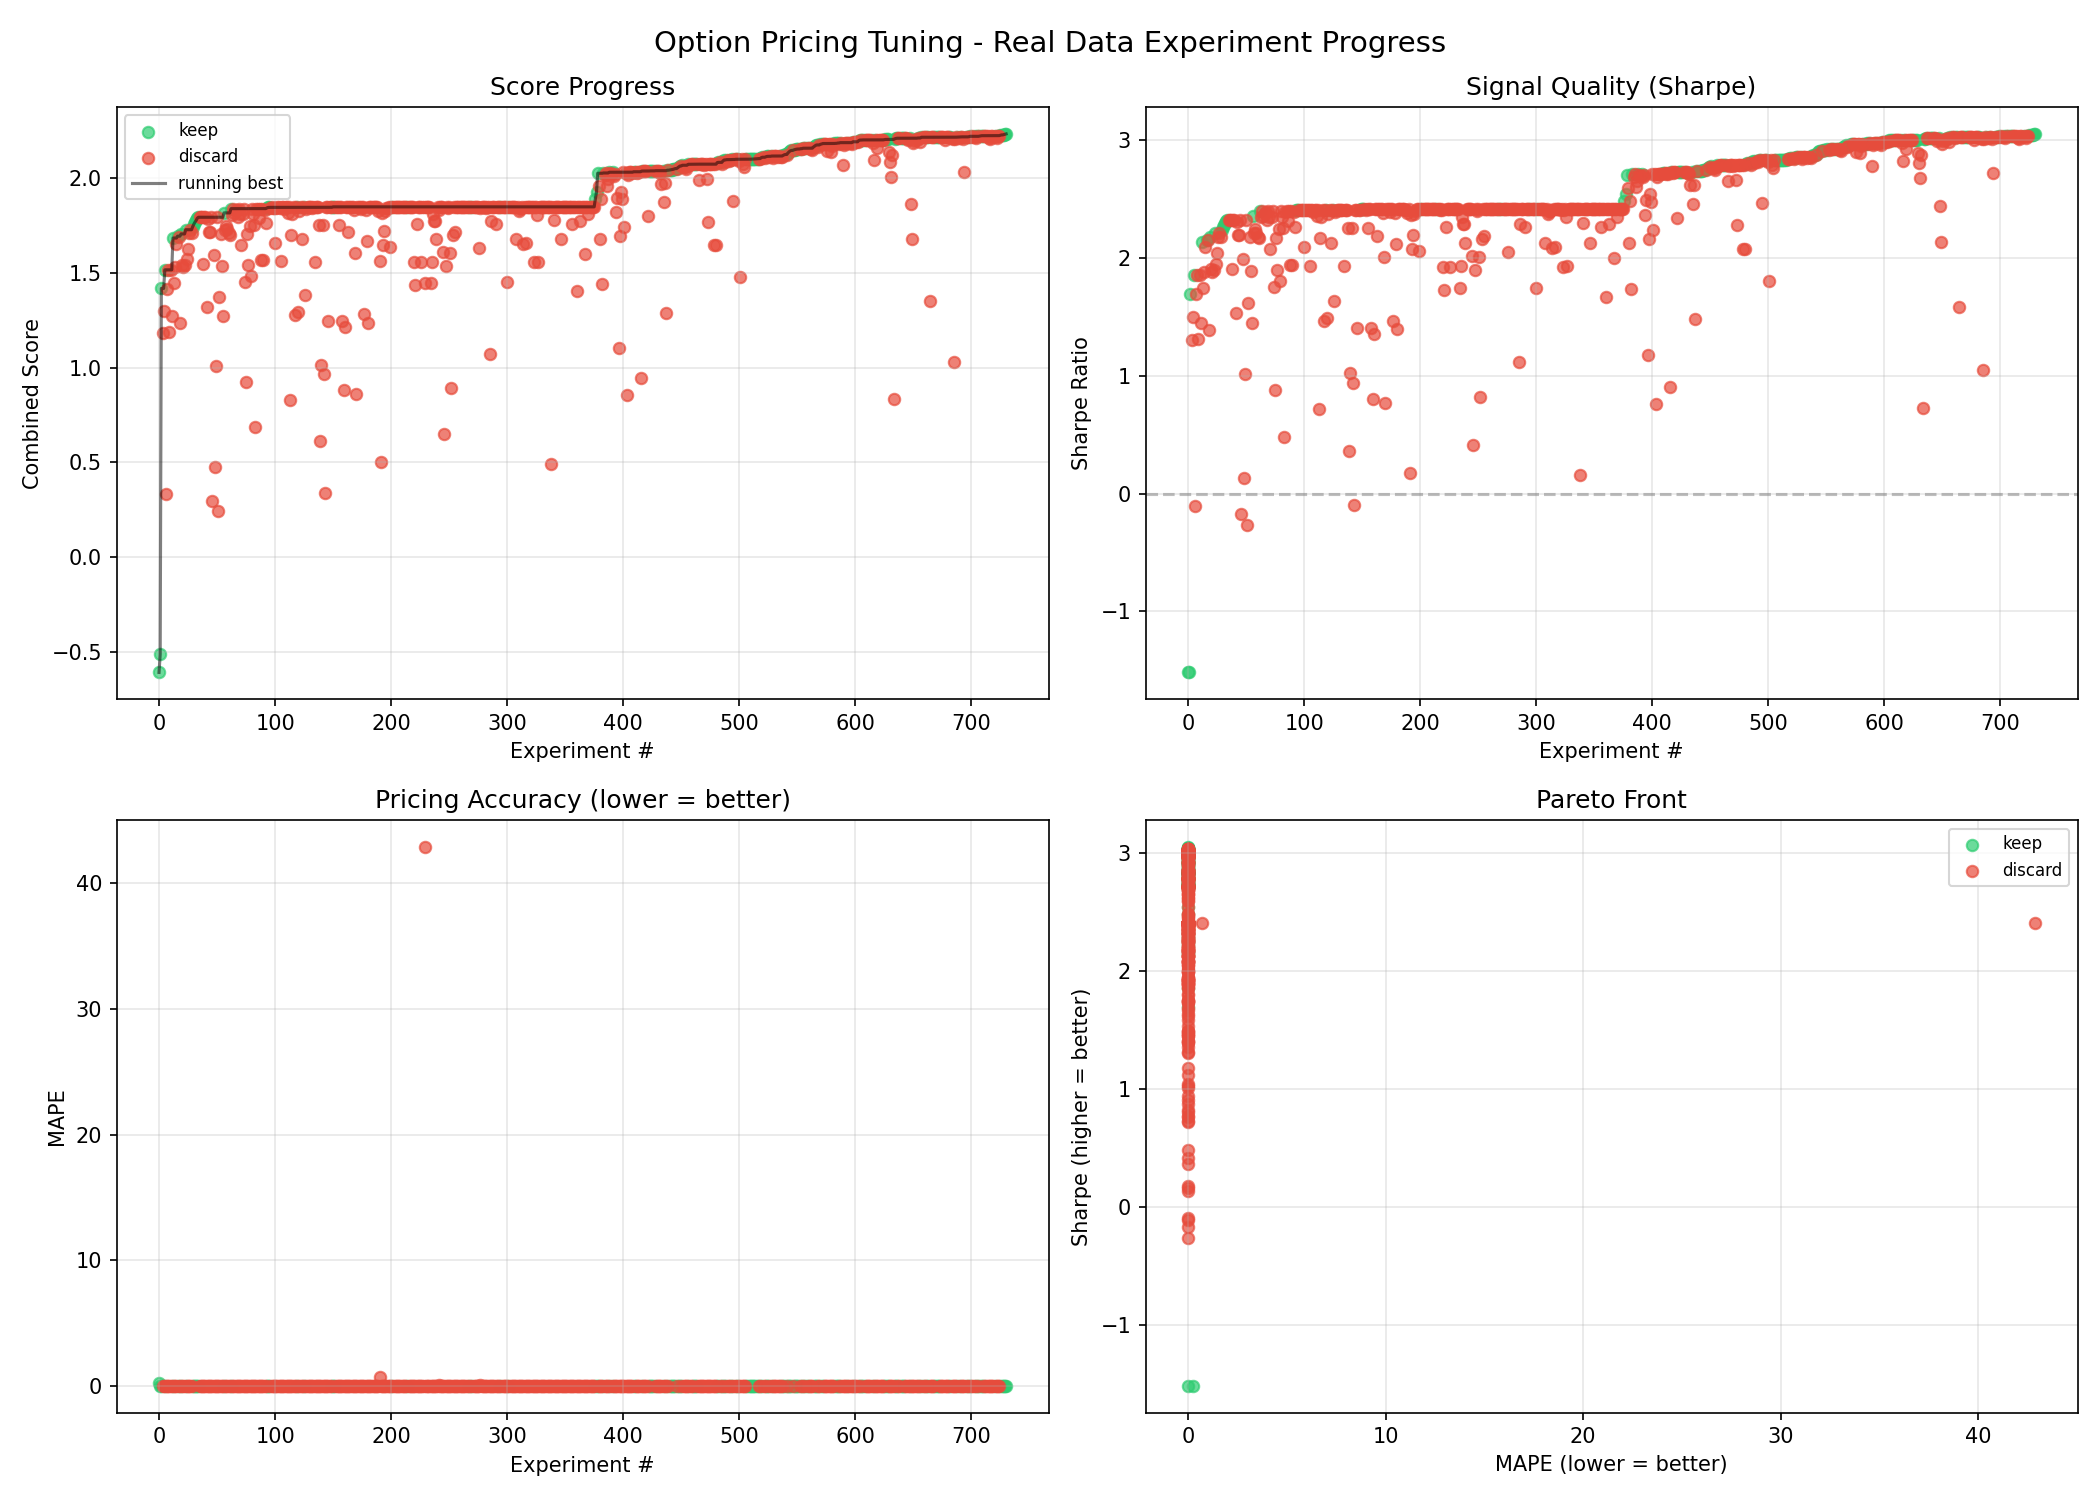
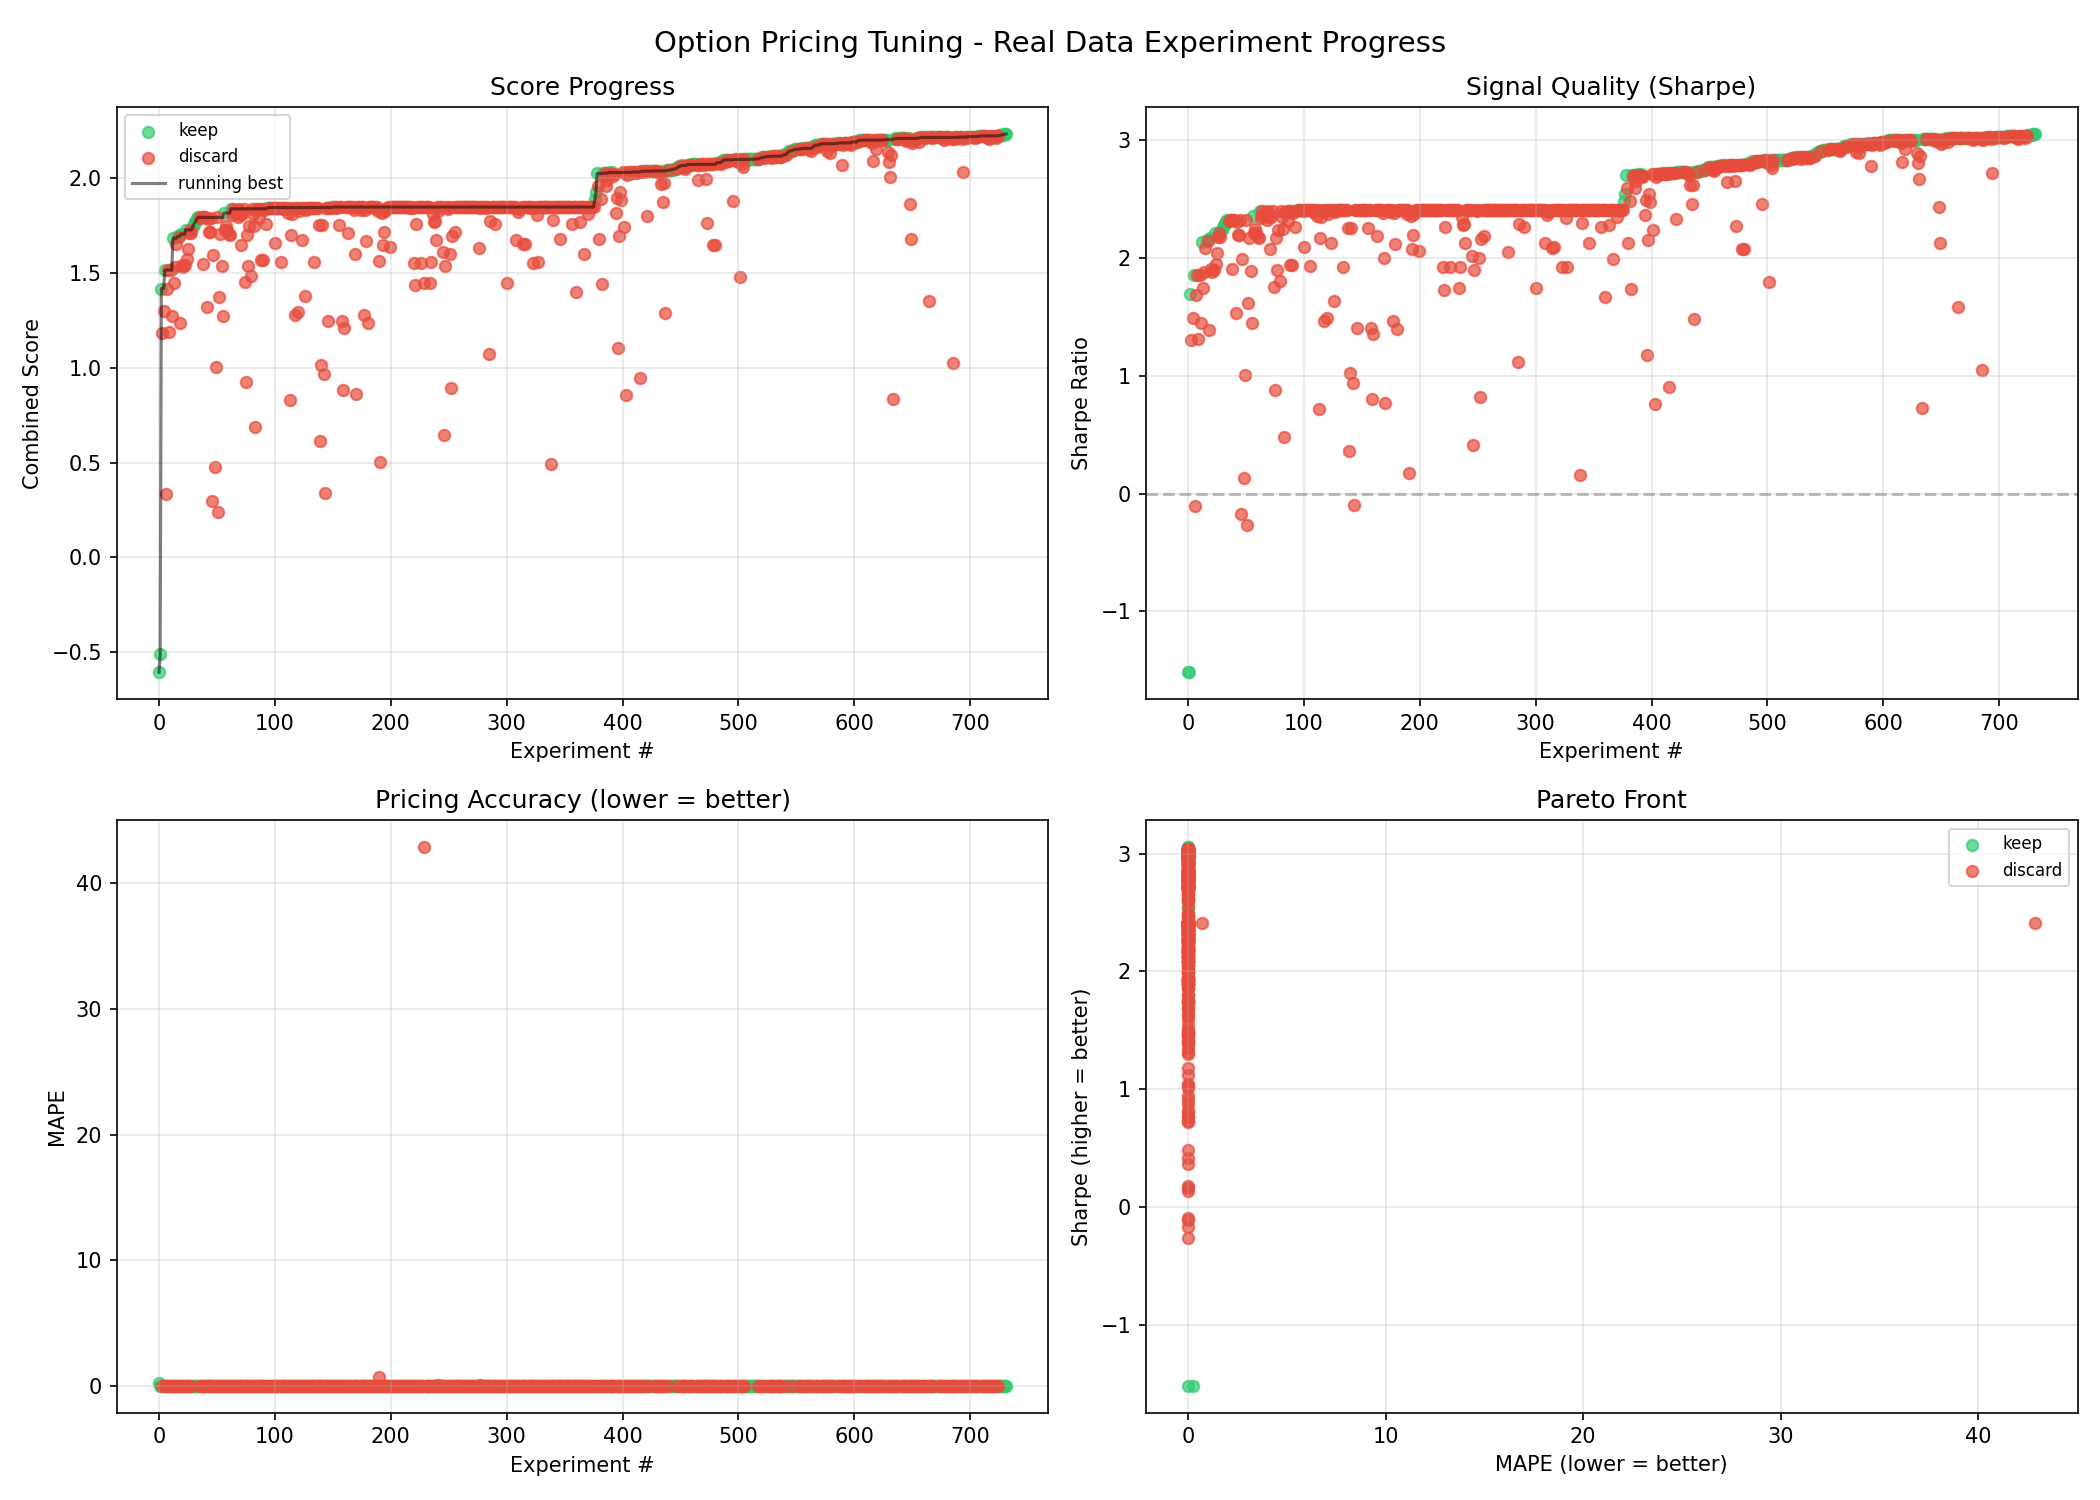
log exp732

diff --git a/README.md b/README.md
@@ -9,12 +9,12 @@ signals using **real stock market data** from Yahoo Finance.
 
 | Metric | Value |
 |---|---|
-| Combined Score | 2.2306 |
-| Sharpe Ratio | 3.0523 |
+| Combined Score | 2.2317 |
+| Sharpe Ratio | 3.0542 |
 | MAPE | 0.002003 |
 | Win Rate | 86.2% |
 | Trades | 29 |
-| Experiments | 731 (170 kept) |
+| Experiments | 732 (171 kept) |
 
 ## How It Works
 
